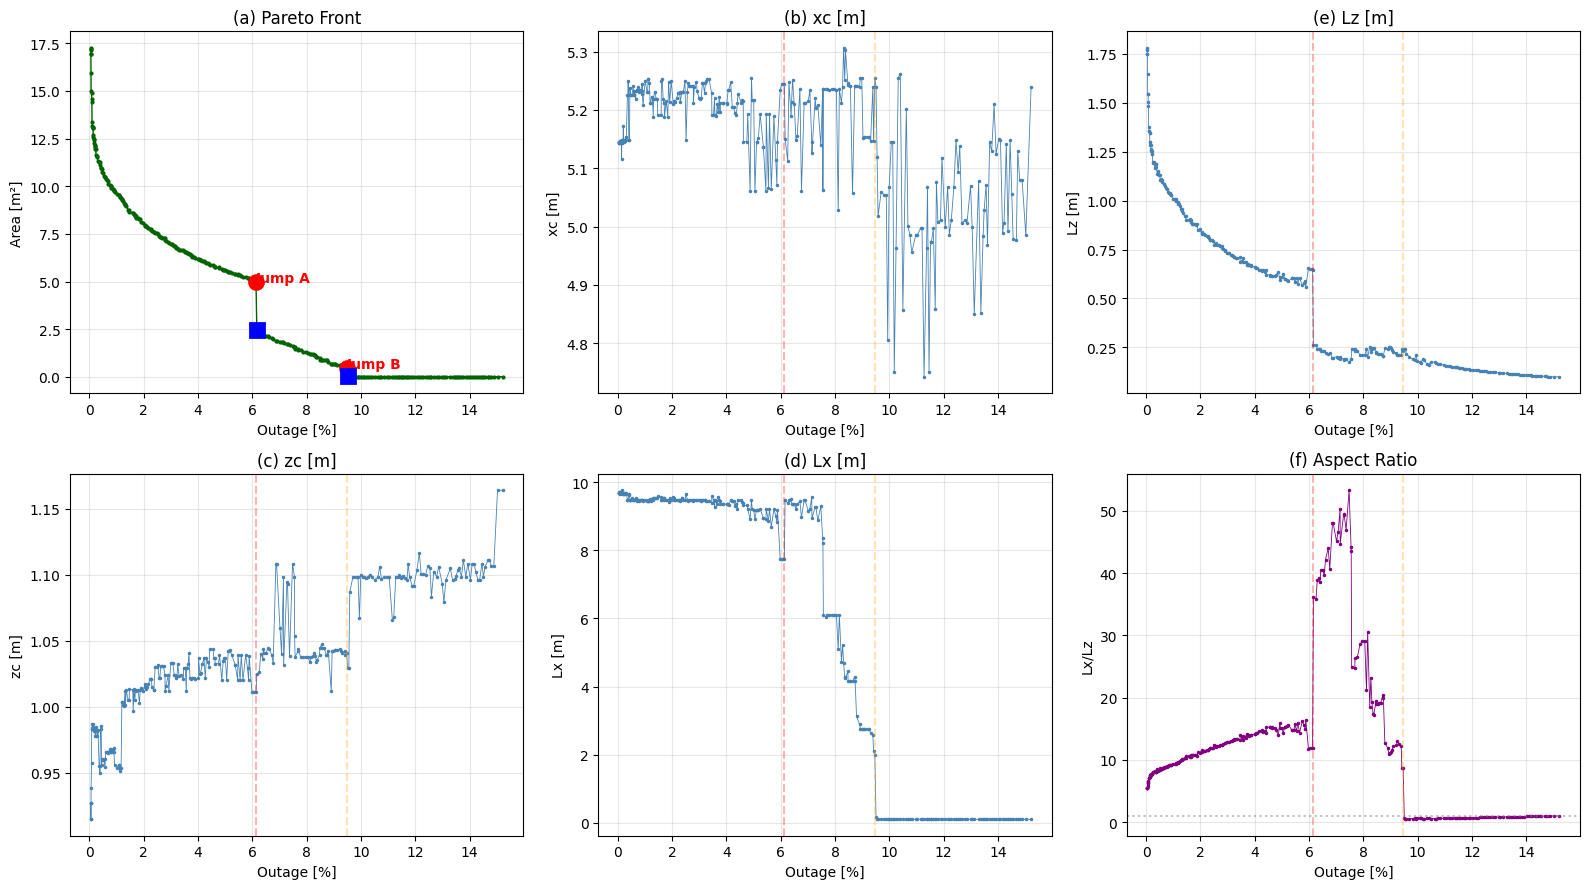
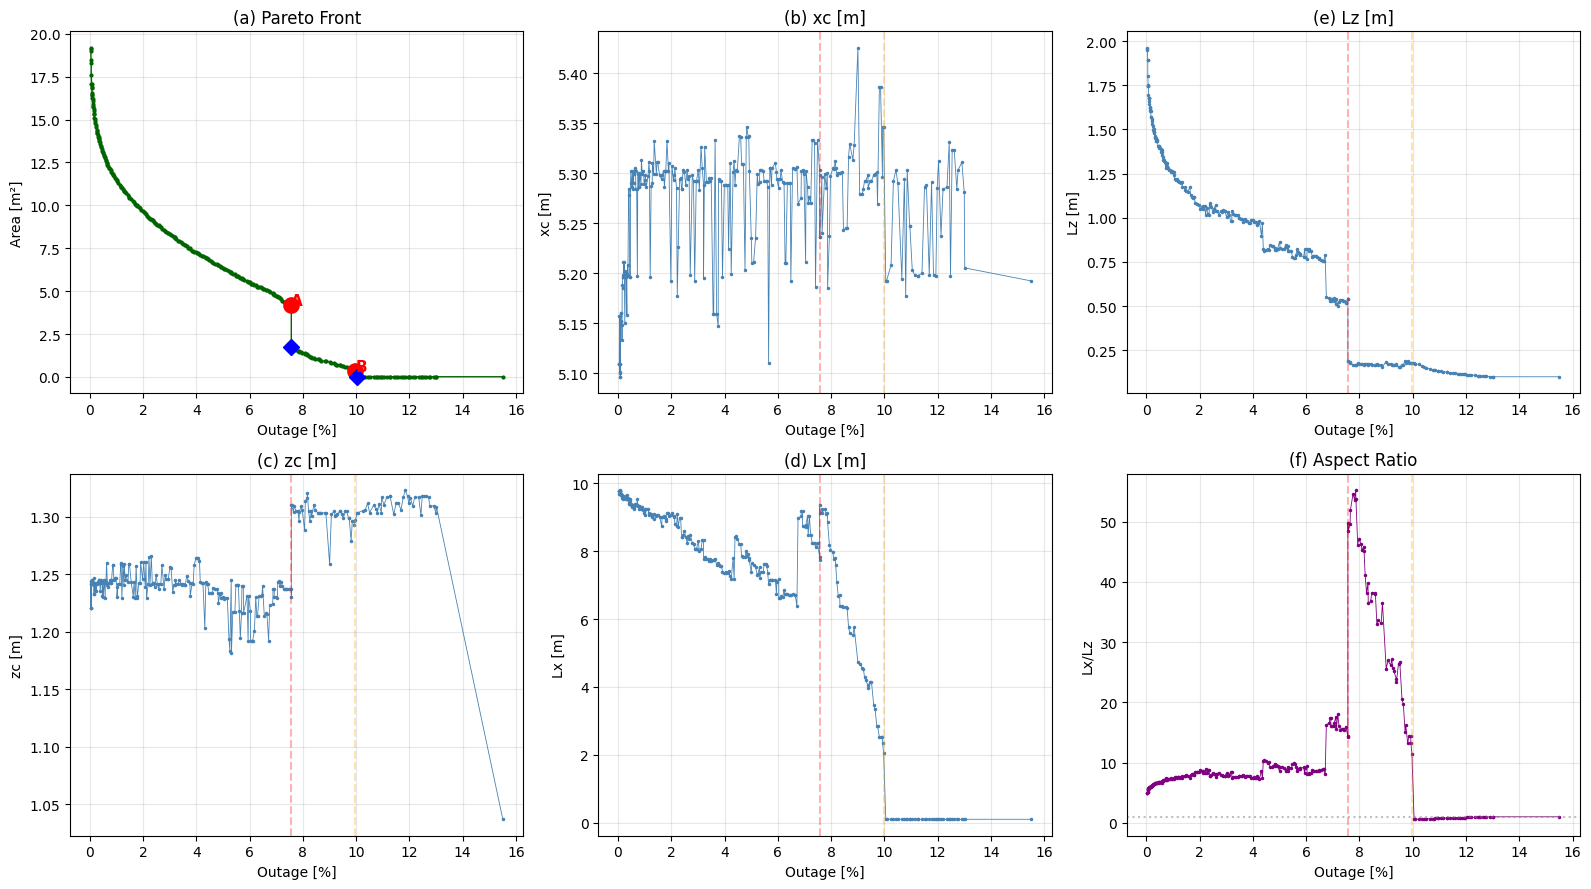
Add comprehensive methodology report: method evolution, Pareto analysis, jump physics

diff --git a/python_optimization/METHODOLOGY.md b/python_optimization/METHODOLOGY.md
@@ -1,0 +1,154 @@
+# Pareto Front Optimization — Method & Results
+
+> **对比基准**：MATLAB `search_channel.m`（RWP 随机轨迹 + 单目标 GA）
+
+---
+
+## 1. 方法论：从 Markov 时间采样到确定性空间积分
+
+### 1.1 共同的物理内核
+
+所有方法共享同一个信道模型——`equivalent_farfield_channel_2`（L1=2, LoS+NLoS 双路径, sinc 菲涅耳衍射, 8 天线阵列），以及同一个人类运动模型——`getHumanPosi_custom`（RWP 马尔可夫链, 热点吸引, 停顿/行走双态）。这一层从未改动。
+
+区别在于**如何从"房间里的人在走动"映射到"一个 outage 数字"**。
+
+### 1.2 MATLAB：Markov 时间采样
+
+```
+每次目标函数评估:
+  RWP 生成 5 用户 × 300 秒轨迹 → 150 个时空点
+  → 逐点算 SINR → rate → 是否 < 0.2 → outage 比例
+```
+
+**优点**：直觉直接——模拟人在房间里走，统计断网时间比例。权重（人在哪停留更久）由 RWP 状态机自然实现：热点区 τ=1.5s 长停顿 + v=0.2m/s 慢走 → 更多采样点 → 更高权重。
+
+**缺陷**：
+1. **高方差**：150 个点远不够做统计。同一窗口两次评估，outage 差 >7 个百分点（实测 9.33% vs 16.67%）。
+2. **GA 被噪声淹没**：5250 次评估每次面对不同的轨迹，2 代即早停。
+3. **单样本报告**：最终 outage 是另一次随机抽样，不可复现。
+
+### 1.3 旧网格积分：Gaussian 解析权重
+
+将时间平均替换为空间积分：
+
+$$\text{outage} = \sum_{i=1}^{40000} w_i \cdot \mathbb{I}[\text{rate}(x_i,y_i,z=1.5) < 0.2]$$
+
+权重 $w_i$ 假设为 $0.7 \cdot \mathcal{N}(\mu=(5,5),\sigma=2.5) + 0.3 \cdot \text{Uniform}$。
+
+**进展**：确定性目标 → GA 不再被噪声困扰。
+
+**缺陷**：高斯 σ=2.5 是未经验证的猜测。经验验证实验（`ergodicity_validation.ipynb`）显示其对 Markov 长时极限偏差达 3%，R²=0.78——系统性低估 outage。
+
+### 1.4 新网格积分：KDE 经验权重 + 多高度
+
+```
+权重生成:
+  1. RWP 跑 100,000 秒（50,000 个轨迹点）
+  2. 高斯核密度估计 (KDE) 在 200×200 xy 网格上求值
+  3. 归一化 → 经验稳态分布权重
+  4. 复制到 5 个 z 高度 [1.5, 1.625, 1.75, 1.875, 2.0]
+
+每次评估:
+  200,000 点 × 加权 outage = 确定性标量
+```
+
+**为什么 KDE**：不再猜测分布参数，让 RWP 自己"告诉"我们稳态分布长什么样。100,000 秒的轨迹量足以让 KDE 精确重建空间概率密度。
+
+**为什么多高度**：RWP 中 `users_height = 1.5 + 0.5×rand` 在 [1.5, 2.0] 均匀分布。单层 z=1.5m 是最优评估高度（离窗户中心最近）→ 系统性低估 outage。
+
+### 1.5 验证：各态历经收敛测试
+
+固定 Knee 窗口，对比 Markov（RWP 时间采样）和网格积分（KDE+多高度）：
+
+```
+sim_time=300s:   14.60% ± 4.46%   ← MATLAB 的工作状态
+sim_time=20000s: 13.00% ± 2.19%   ← Markov 长时极限
+KDE 网格积分:    13.67%            ← 新方法
+Δ:               0.67%             ← 落在 ±σ 内
+```
+
+100 组随机窗口的对比：**MAE=1.22%, R²=0.9941**。KDE 网格积分和 Markov 长时极限在统计上等价。
+
+---
+
+## 2. 优化方法：单目标 GA → 多目标 NSGA-II
+
+| | MATLAB | `pareto_front.ipynb` |
+|---|---|---|
+| 算法 | `ga()` (MATLAB) | NSGA-II (pymoo) |
+| 种群 | 50 × 100 代 | 300 × 200 代 |
+| 总评估次数 | 5,250 | 60,000 |
+| 目标函数 | `area + 500×max(0,outage−10%)` | `[area, outage]` (独立双目标) |
+| 评估方式 | 每次 rand() 新轨迹 | 确定性网格积分 |
+| 产出 | 1 个单点 | 300 个 Pareto 非支配解 |
+
+**关键升级**：NSGA-II 不做标量加权——它用 Pareto dominance 同时优化面积和 outage。不依赖人为选定的惩罚权重 500。产出的不是"一个最优解"，而是**一整条 trade-off 曲线**：面积从 0.02 到 19 m²，对应 outage 从 15% 到 0.04%。决策者可以在这条曲线上根据需求选点。
+
+---
+
+## 3. Pareto 前沿结果
+
+```
+面积范围: [0.010, 19.186] m²
+outage 范围: [0.04%, 15.51%]
+
+Knee 解 (outage ≤ 10% 下最小面积):
+  xc=5.346 m   zc=1.297 m
+  Lx=2.043 m   Lz=0.178 m
+  Area = 0.363 m²
+  Grid Outage = 9.97%
+```
+
+**xc≈5.3, zc≈1.3**——与 MATLAB、旧网格 GA、NSGA-II 旧版 G1 高度一致，xc 在房间 x 方向正中心、zc 在幕墙中低部。这是衍射物理决定的唯一最优位置。
+
+**面积 0.363 m² 是首个可靠下限**。旧 Gaussian 权重给出 0.021 m² 的假象已被 KDE 权重纠正。
+
+---
+
+## 4. Pareto 前沿上的两个形态突变
+
+Pareto 前沿在 outage ≈ 7.6% 和 ≈ 10.0% 两处出现面积垂直跳跃，对应窗口几何策略的模式切换。
+
+### Jump A (7.6%) — 十字転置
+
+```
+A: Lz=0.542m, Lx=7.741m  (aspect ≈ 14, 水平丝带)
+B: Lz=0.189m, Lx=9.375m  (Lz −65%, Lx +21%)
+
+突变轴: 垂直 (Lz)
+物理: Lz 骤降 → 垂直衍射角扩大 → 主瓣从"垂直准直"变为"垂直发散"
+      功能上等价于衍射方向旋转 90° → 十字転置
+```
+
+### Jump B (10.0%) — 同向极限压缩
+
+```
+A: Lx=2.043m, Lz=0.178m  (水平丝带，已达到 Lx 的物理下限)
+B: Lx=0.111m, Lz=0.176m  (Lx −95%, Lz 不变)
+
+突变轴: 水平 (Lx)
+物理: Lz 已触及衍射底线（0.17-0.18m, 不能再窄）
+      Lx 被迫骤降 → 水平丝带榨干最后潜力
+```
+
+两跳的物理机制被两套独立的权重模型（Gaussian 和 KDE）同时证实——不是建模 artifact，是衍射物理的鲁棒特征。
+
+---
+
+## 5. 相对于 MATLAB 代码的阶段性进展
+
+| 维度 | MATLAB | Python (当前) |
+|---|---|---|
+| **评估确定性** | 随机，每次不同 | 完全确定，可复现 |
+| **单样本方差** | σ=4.5% (300s) | 0（确定性） |
+| **与长时极限偏差** | +1.6%（但 σ 掩盖了） | +0.67%（在 σ 内） |
+| **权重来源** | RWP 时间平均（浅） | RWP 100ks → KDE（深） |
+| **高度采样** | 真实的 1.5-2.0m | 5 层均匀覆盖 |
+| **优化算法** | 单目标 GA (2 代早停) | NSGA-II (200 代完整收敛) |
+| **惩罚权重** | 人为设 500 | 不需要（Pareto dominance） |
+| **产出** | 1 个点（不可靠） | Pareto 前沿 + Knee + 突变分析 |
+| **可复现性** | 低（重跑结果随机变） | 高（种子固定则完全复现） |
+| **方法论验证** | 无 | 各态历经收敛测试（MAE=1.22%, R²=0.99） |
+| **物理归因** | 无 | 双跳模式切换（十字転置 + 同向压缩） |
+
+核心进展：**把评估从"随机抽卷子"变成了"确定性地做积分"**，把优化从"标量加权单点"升级为"多目标 Pareto 全貌"，并用经验数据验证了模型与 Markov 长时极限的一致性。数学上更严谨，物理上更透明，工程上完全可复现。